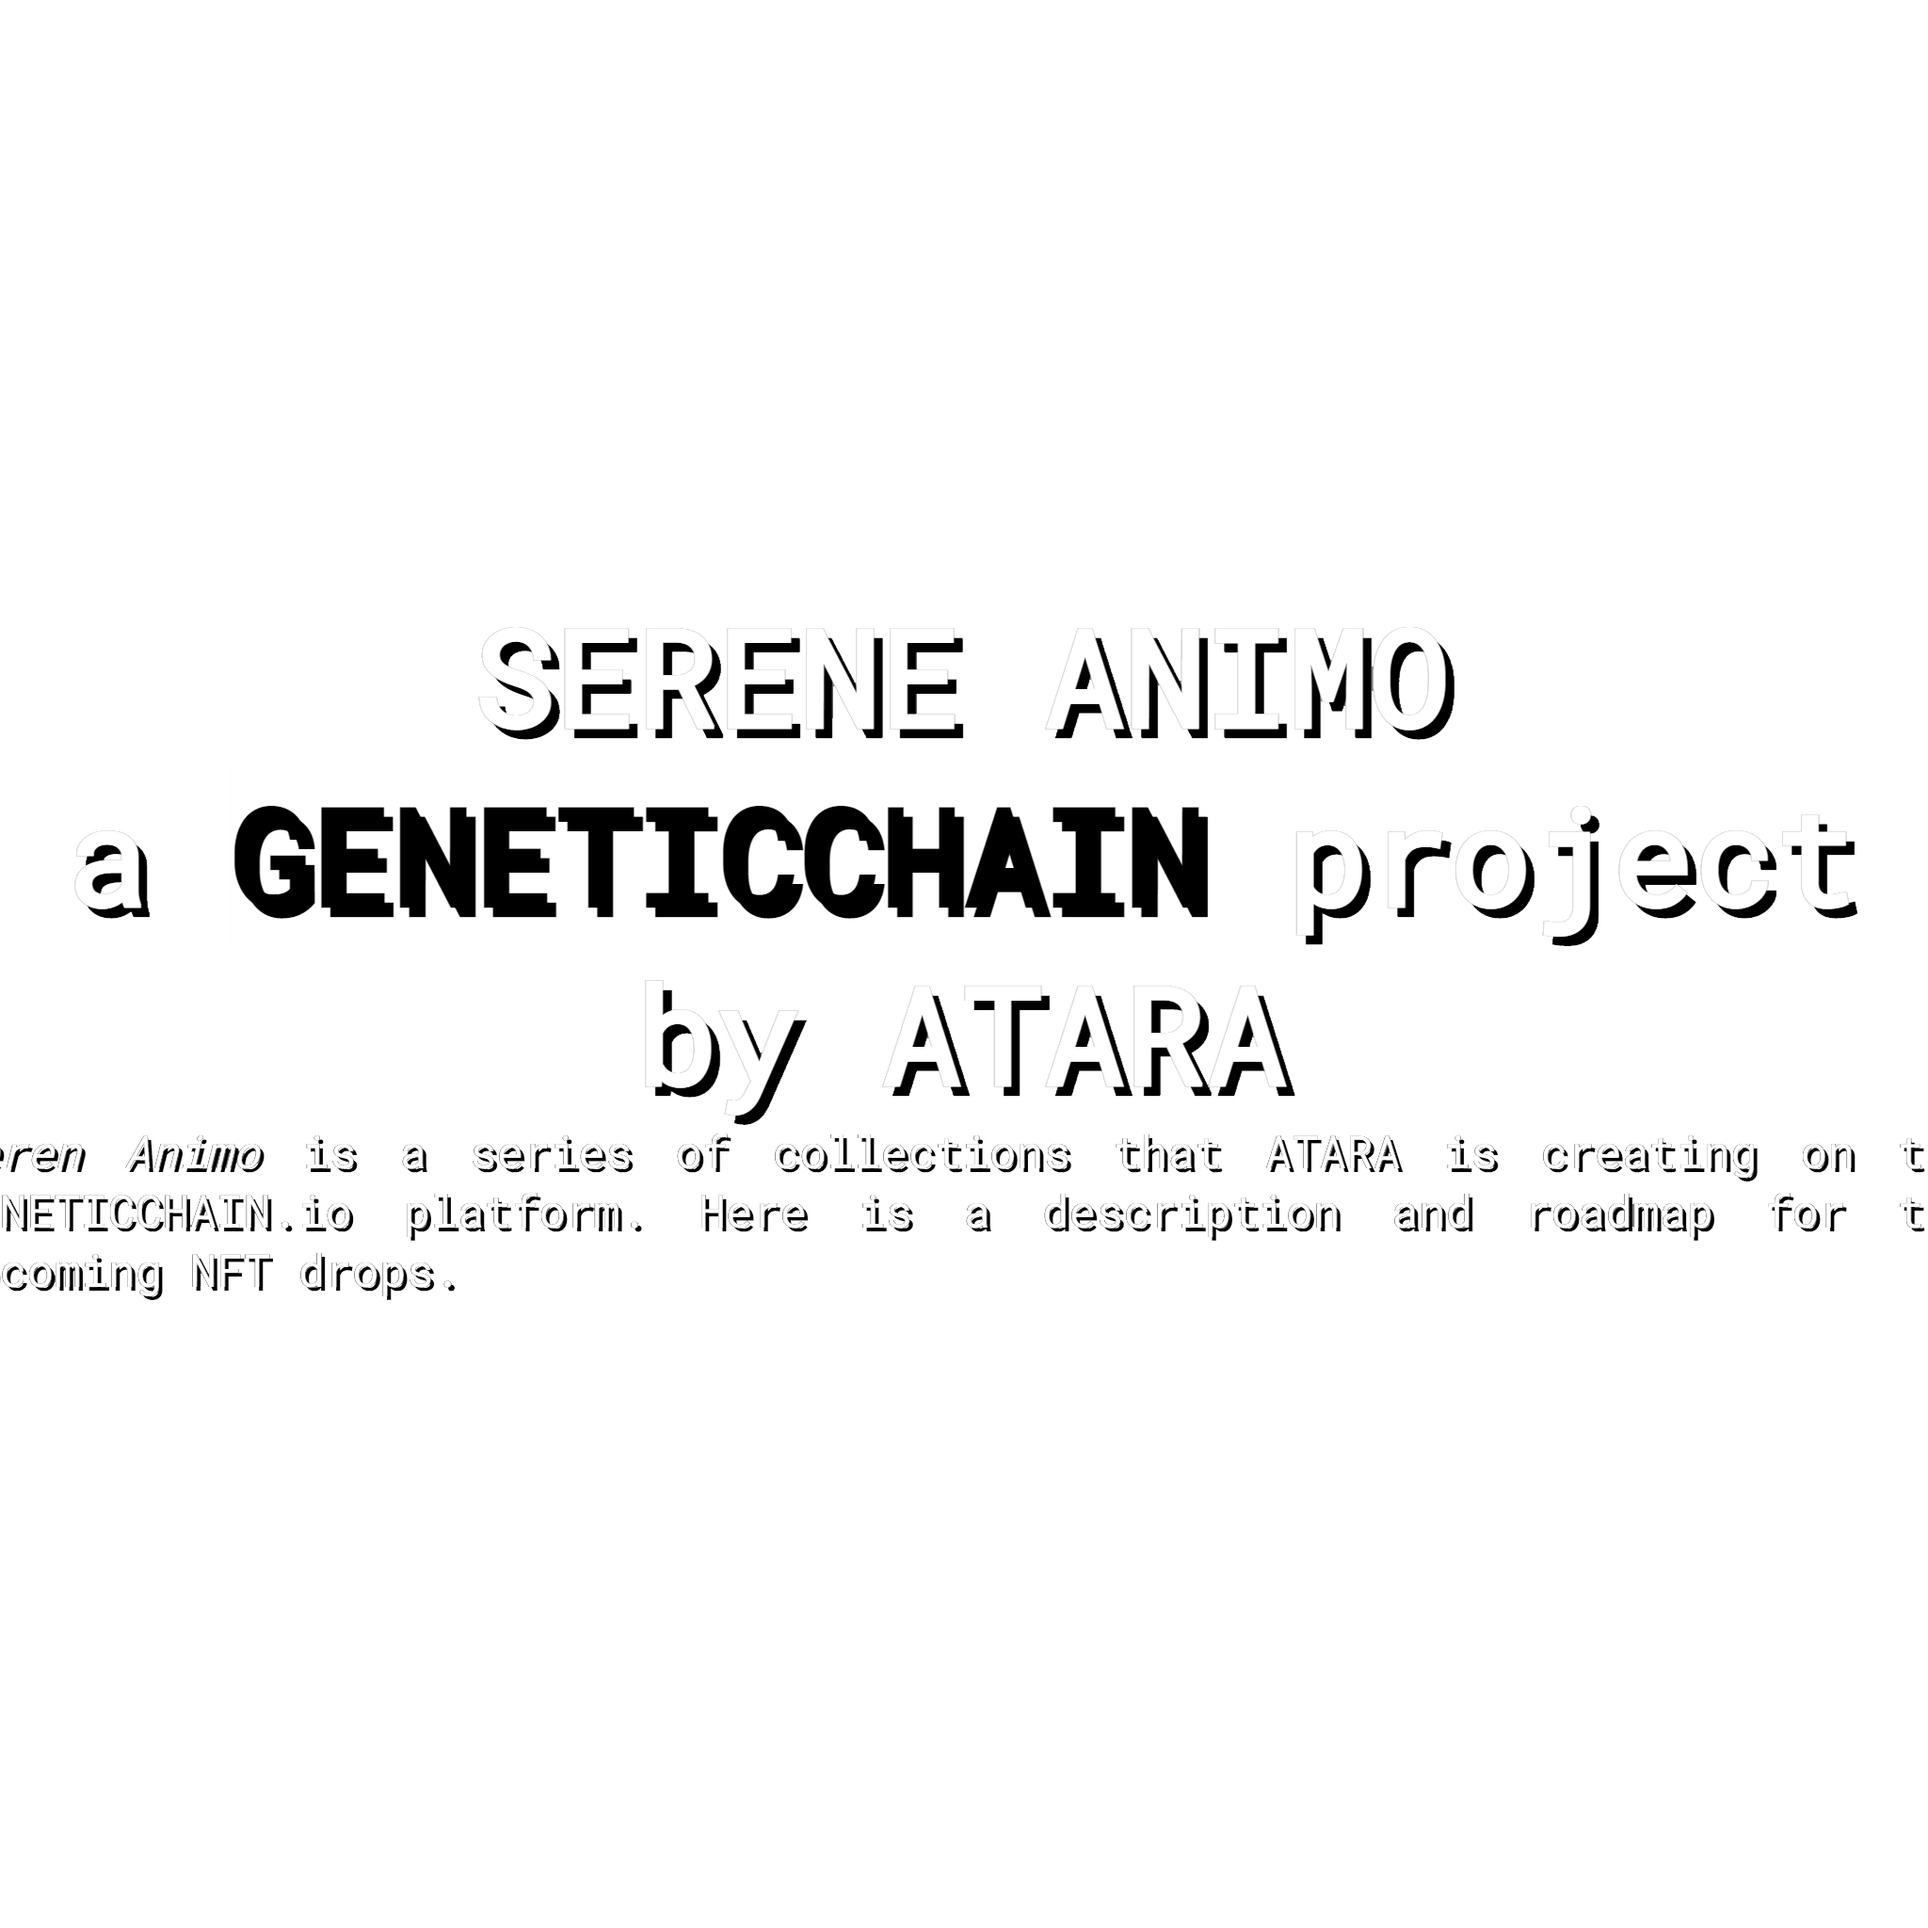
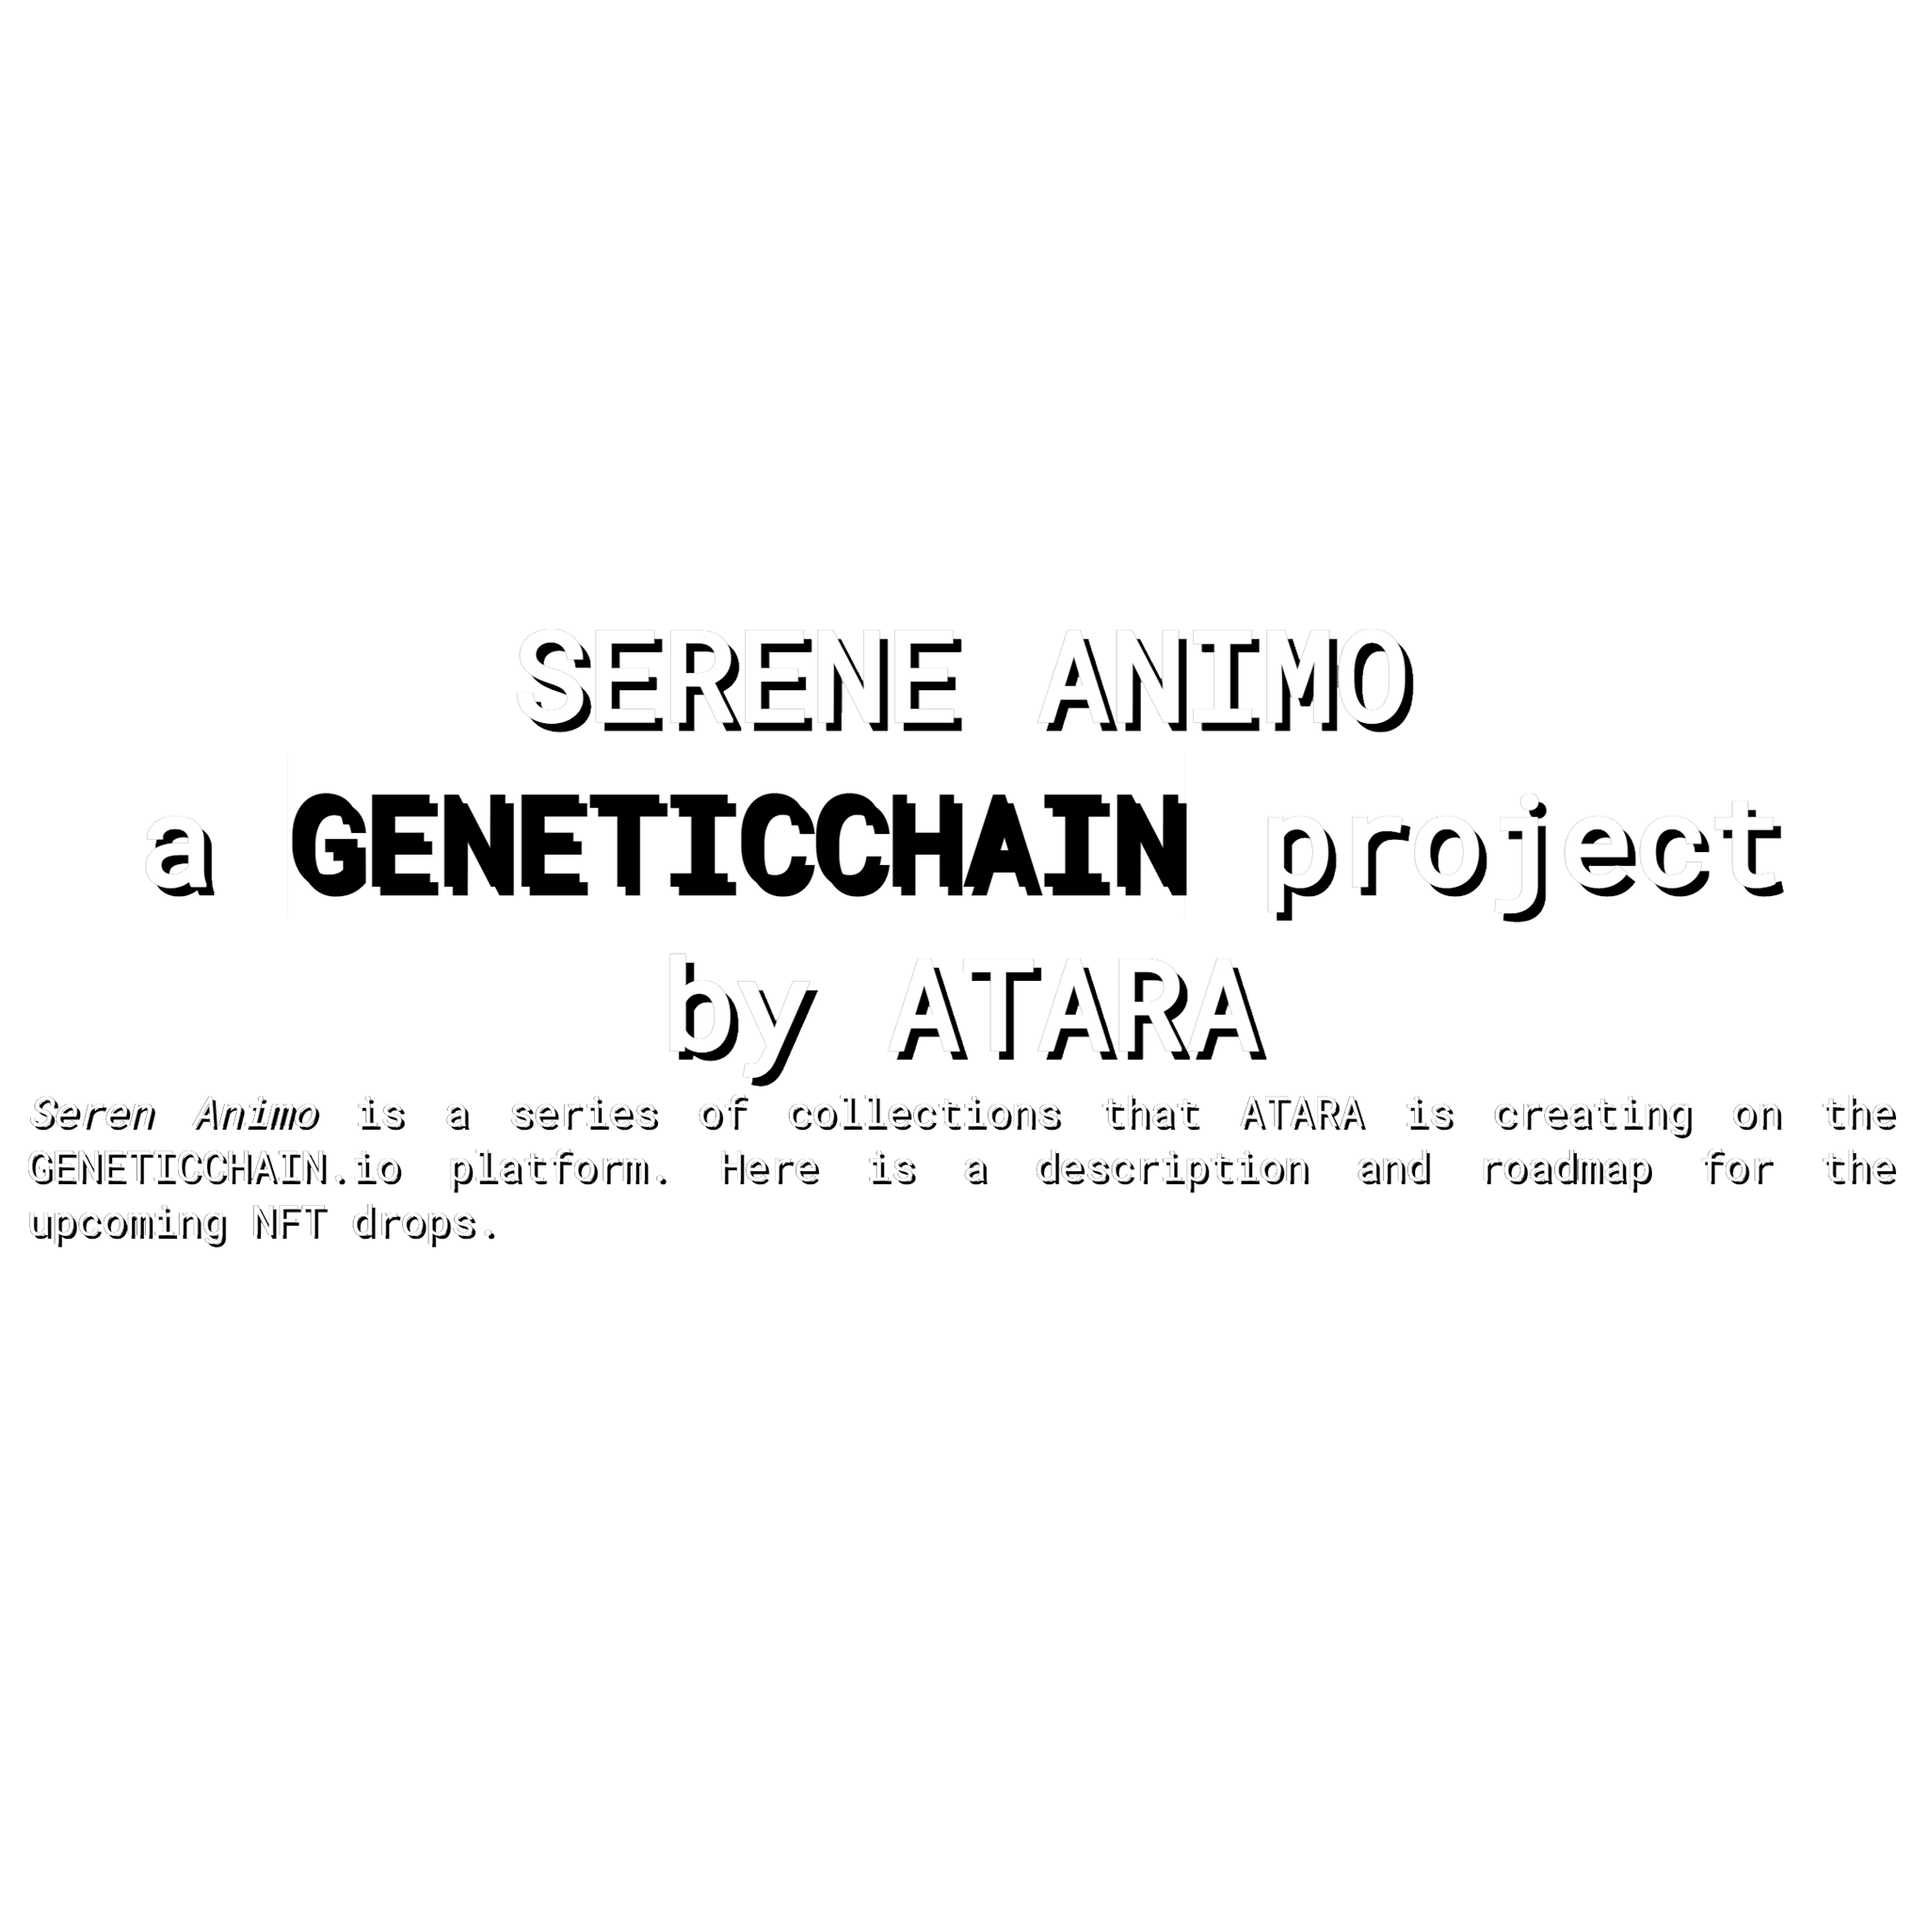
added glitch efect

Changed region(s): [[0.0, 0.3125, 1.0, 0.6875]]

diff --git a/gc/art.js b/gc/art.js
@@ -784,15 +784,122 @@ const fragmentShader = `
   uniform int iInt9;
   uniform int iInt10;
  
-  void mainImage( out vec4 fragColor, in vec2 fragCoord )
+  
+  #define SS(a, b, x) (smoothstep(a, b, x) * smoothstep(b, a, x))
+
+  #define UI0 1597334673U
+  #define UI1 3812015801U
+  #define UI2 uvec2(UI0, UI1)
+  #define UI3 uvec3(UI0, UI1, 2798796415U)
+  #define UIF (1. / float(0xffffffffU))
+
+  // Hash by David_Hoskins
+  vec3 hash33(vec3 p)
   {
-    vec2 uv = fragCoord / iResolution.xy;
-    float ar = iResolution.y / iResolution.x;
-    vec4 overlay = texture( overlayTx, uv * vec2( 1., ar )  );
-    fragColor.rgb = ( overlay.rgb * overlay.a ) + ( texture(iChannel1, uv).rgb * (1. - overlay.a) );
+    uvec3 q = uvec3(ivec3(p)) * UI3;
+    q = (q.x ^ q.y ^ q.z)*UI3;
+    return -1. + 2. * vec3(q) * UIF;
+  }
+
+  // Gradient noise by iq
+  float gnoise(vec3 x)
+  {
+      // grid
+      vec3 p = floor(x);
+      vec3 w = fract(x);
+      
+      // quintic interpolant
+      vec3 u = w * w * w * (w * (w * 6. - 15.) + 10.);
+      
+      // gradients
+      vec3 ga = hash33(p + vec3(0., 0., 0.));
+      vec3 gb = hash33(p + vec3(1., 0., 0.));
+      vec3 gc = hash33(p + vec3(0., 1., 0.));
+      vec3 gd = hash33(p + vec3(1., 1., 0.));
+      vec3 ge = hash33(p + vec3(0., 0., 1.));
+      vec3 gf = hash33(p + vec3(1., 0., 1.));
+      vec3 gg = hash33(p + vec3(0., 1., 1.));
+      vec3 gh = hash33(p + vec3(1., 1., 1.));
+      
+      // projections
+      float va = dot(ga, w - vec3(0., 0., 0.));
+      float vb = dot(gb, w - vec3(1., 0., 0.));
+      float vc = dot(gc, w - vec3(0., 1., 0.));
+      float vd = dot(gd, w - vec3(1., 1., 0.));
+      float ve = dot(ge, w - vec3(0., 0., 1.));
+      float vf = dot(gf, w - vec3(1., 0., 1.));
+      float vg = dot(gg, w - vec3(0., 1., 1.));
+      float vh = dot(gh, w - vec3(1., 1., 1.));
+    
+      // interpolation
+      float gNoise = va + u.x * (vb - va) + 
+                u.y * (vc - va) + 
+                u.z * (ve - va) + 
+                u.x * u.y * (va - vb - vc + vd) + 
+                u.y * u.z * (va - vc - ve + vg) + 
+                u.z * u.x * (va - vb - ve + vf) + 
+                u.x * u.y * u.z * (-va + vb + vc - vd + ve - vf - vg + vh);
+      
+      return 2. * gNoise;
+  }
+
+  // gradient noise in range [0, 1]
+  float gnoise01(vec3 x)
+  {
+    return .5 + .5 * gnoise(x);   
   }
 
 
+  void mainImage( out vec4 fragColor, in vec2 fragCoord )
+  {
+      vec2 iChannelResolution = vec2(2048., 2048.);
+      vec2 uvbase = fragCoord / iResolution.xy;
+      vec3 baseLayer = texture( iChannel1, uvbase ).rgb;
+      
+      vec2 margin = vec2(10), Sres = iResolution.xy -2.*margin, Tres = iChannelResolution, ratio = Sres/Tres;
+      vec2 uv = fragCoord - margin;
+      uv -= .5*Tres*max(vec2(ratio.x-ratio.y,ratio.y-ratio.x),0.);
+      uv /= Tres*min(ratio.x,ratio.y);
+      
+      
+      
+      float t = iTime;
+      
+      // smoothed interval for which the glitch gets triggered
+      float glitchAmount = SS(7. * .001, 7. * 0.5, mod(t, 7.));  
+    float displayNoise = 0.;
+      vec3 col = vec3(0.);
+      vec2 eps = vec2(5. / iResolution.x, 0.);
+      vec2 st = vec2(0.);
+
+      // analog distortion
+      float y = uv.y * iResolution.y;
+      float distortion = gnoise(vec3(0., y * .01, t * 500.)) * (glitchAmount * 4. + .1);
+      distortion *= gnoise(vec3(0., y * .02, t * 250.)) * (glitchAmount * 2. + .025);
+
+      ++displayNoise;
+      distortion += smoothstep(.999, 1., sin((uv.y + t * 1.6) * 2.)) * .02;
+      distortion -= smoothstep(.999, 1., sin((uv.y + t) * 2.)) * .02;
+      st = uv + vec2(distortion, 0.);
+      // chromatic aberration
+      col.r += textureLod(overlayTx, clamp(st + eps + distortion,0.,1.), 0.).r;
+      col.g += textureLod(overlayTx, clamp(st,0.,1.), 0.).r;
+      col.b += textureLod(overlayTx, clamp(st - eps - distortion,0.,1.), 0.).r;
+      
+      float a = 0.;
+      if( col.r > 0.5 || col.g > 0.5 || col.b > 0.5 )
+          a = 1.;
+      col = (col*a) + ( baseLayer * (1.-a));
+      fragColor = vec4(col, 1.0);
+  }
+
+  // void mainImage( out vec4 fragColor, in vec2 fragCoord )
+  // {
+  //   vec2 uv = fragCoord / iResolution.xy;
+  //   float ar = iResolution.y / iResolution.x;
+  //   vec4 overlay = texture( overlayTx, uv * vec2( 1., ar )  );
+  //   fragColor.rgb = ( overlay.rgb * overlay.a ) + ( texture(iChannel1, uv).rgb * (1. - overlay.a) );
+  // }
   
  
   void main() 
